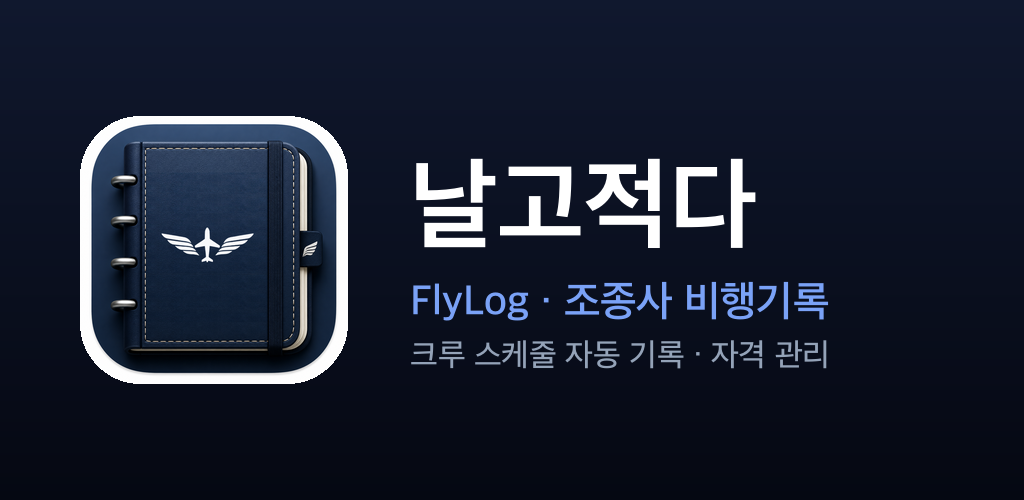
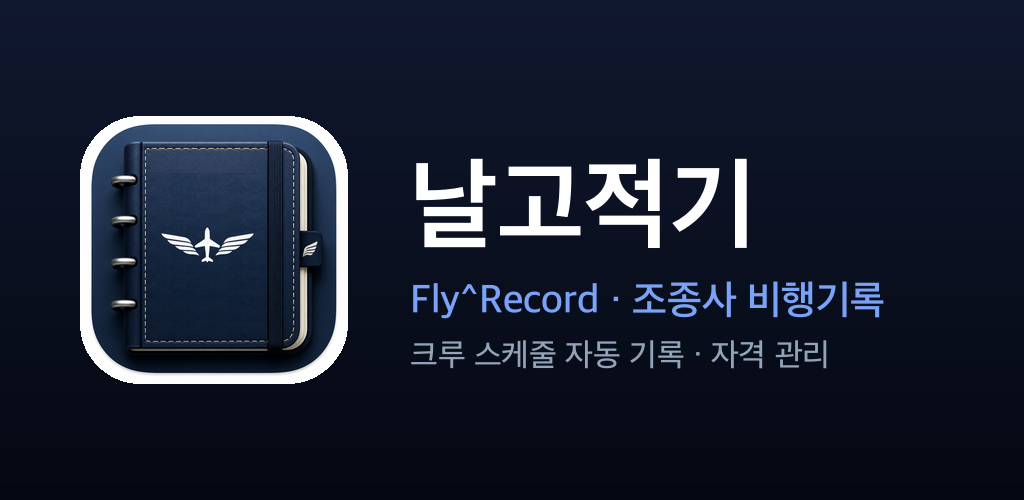
feat: 앱 이름을 '날고적기 / Fly^Record'로 변경
출시 전에 이름을 확정했다. 표시 이름·법적 고지·스토어 자료 전부 교체.
번들 ID(com.rufnekcrew.flylog, com.rufnek.pilotlogbook)와 구독 상품 ID는
사용자에게 보이지 않고 바꾸면 기존 설정이 깨지므로 그대로 둔다.

Changed region(s): [[0.4062, 0.54, 0.875, 0.66], [0.6562, 0.33, 0.75, 0.48]]

diff --git a/www/privacy.html b/www/privacy.html
@@ -4,7 +4,7 @@
   <meta charset="UTF-8" />
   <meta name="viewport" content="width=device-width, initial-scale=1.0" />
   <meta name="theme-color" content="#0a1440" />
-  <title>개인정보처리방침 | 날고적다</title>
+  <title>개인정보처리방침 | 날고적기</title>
   <style>
     * { box-sizing:border-box; }
     body { margin:0; background:#f5f7fb; color:#172033; font-family:-apple-system,BlinkMacSystemFont,"Noto Sans KR","Segoe UI",sans-serif; line-height:1.7; }
@@ -28,14 +28,14 @@
 </head>
 <body>
 <main>
-  <div class="brand">날고적다 FLYLOG</div>
+  <div class="brand">날고적기 FLYLOG</div>
   <h1>개인정보처리방침</h1>
   <p class="sub">시행일: 2026년 8월 23일</p>
 
-  <div class="summary">날고적다는 서비스 제공에 필요한 최소한의 정보만 처리합니다. CrewConnex 아이디와 비밀번호 및 파싱을 위해 선택한 PDF·Excel·CSV 원본 파일은 날고적다 서비스 코드에 영구 저장하지 않습니다. 기존 경력 증빙 첨부파일은 사용자의 기기에만 저장되고 서버로 전송되지 않습니다.</div>
+  <div class="summary">날고적기는 서비스 제공에 필요한 최소한의 정보만 처리합니다. CrewConnex 아이디와 비밀번호 및 파싱을 위해 선택한 PDF·Excel·CSV 원본 파일은 날고적기 서비스 코드에 영구 저장하지 않습니다. 기존 경력 증빙 첨부파일은 사용자의 기기에만 저장되고 서버로 전송되지 않습니다.</div>
 
   <h2>1. 개인정보 처리자</h2>
-  <p>서비스명 및 운영자 표기: 날고적다<br />개인정보 관련 문의: <a href="mailto:info@rufnekcrew.com">info@rufnekcrew.com</a></p>
+  <p>서비스명 및 운영자 표기: 날고적기<br />개인정보 관련 문의: <a href="mailto:info@rufnekcrew.com">info@rufnekcrew.com</a></p>
 
   <h2>2. 처리하는 정보, 목적 및 보유기간</h2>
   <div class="table-wrap">
@@ -57,9 +57,9 @@
   <ul>
     <li>비행기록은 기기 로컬 저장소와 로그인 계정의 Firebase Firestore에 저장됩니다.</li>
     <li>PDF·Excel·CSV 파일은 사용자 기기에서 분석하며, 분석된 비행기록만 동기화 대상이 됩니다.</li>
-    <li>기존 경력 증빙 PDF·사진은 계정별로 구분된 기기 내부 저장소에만 보관되며 Firebase 또는 날고적다 서버에 업로드하지 않습니다.</li>
+    <li>기존 경력 증빙 PDF·사진은 계정별로 구분된 기기 내부 저장소에만 보관되며 Firebase 또는 날고적기 서버에 업로드하지 않습니다.</li>
     <li>전체 백업 파일은 사용자의 명시적인 요청으로 생성되어 사용자가 선택한 파일 앱·iCloud Drive·Google Drive 등에 전달됩니다. 해당 외부 보관 위치의 이용조건과 보안은 각 서비스 및 사용자의 관리에 따릅니다.</li>
-    <li>CrewConnex 로그인 정보는 HTTPS로 Cloudflare Worker에 전송되어 사용자가 요청한 조회에만 사용됩니다. 날고적다 코드는 해당 아이디와 비밀번호를 데이터베이스·파일·캐시에 영구 저장하지 않습니다.</li>
+    <li>CrewConnex 로그인 정보는 HTTPS로 Cloudflare Worker에 전송되어 사용자가 요청한 조회에만 사용됩니다. 날고적기 코드는 해당 아이디와 비밀번호를 데이터베이스·파일·캐시에 영구 저장하지 않습니다.</li>
   </ul>
 
   <h2>4. 외부 서비스 및 처리 위탁</h2>
@@ -77,10 +77,10 @@
   <p>위 서비스는 글로벌 인프라를 사용하므로 정보가 대한민국 외 지역에서 처리될 수 있습니다. 정식 출시 전 실제 Firebase 저장 리전과 각 제공자의 최신 처리 조건을 다시 확인해 본 방침을 구체화합니다.</p>
 
   <h2>5. 제3자 제공</h2>
-  <p>날고적다는 사용자의 개인정보를 판매하지 않습니다. 법령에 근거가 있거나 사용자가 별도로 동의한 경우를 제외하고, 서비스 제공 목적과 무관한 제3자에게 개인정보를 제공하지 않습니다. CrewConnex 자동 가져오기는 사용자가 입력한 계정으로 해당 제3자 서비스에 접속하는 기능이며 CrewConnex 자체 정책의 적용을 받을 수 있습니다.</p>
+  <p>날고적기는 사용자의 개인정보를 판매하지 않습니다. 법령에 근거가 있거나 사용자가 별도로 동의한 경우를 제외하고, 서비스 제공 목적과 무관한 제3자에게 개인정보를 제공하지 않습니다. CrewConnex 자동 가져오기는 사용자가 입력한 계정으로 해당 제3자 서비스에 접속하는 기능이며 CrewConnex 자체 정책의 적용을 받을 수 있습니다.</p>
 
   <h2>6. 파기 절차 및 방법</h2>
-  <p>사용자는 앱의 ‘계정 및 도움말 → 회원 탈퇴’에서 계정 삭제를 시작할 수 있습니다. 본인 확인 후 Firebase 로그인 계정, Firestore 비행기록, 현재 기기의 로컬 비행기록과 해당 계정의 기기 내 경력 증빙 첨부파일을 삭제합니다. 삭제한 기록은 복구할 수 없습니다. 사용자가 파일 앱이나 외부 클라우드에 별도로 보관한 백업 파일은 날고적다가 삭제할 수 없으므로 사용자가 직접 삭제해야 합니다.</p>
+  <p>사용자는 앱의 ‘계정 및 도움말 → 회원 탈퇴’에서 계정 삭제를 시작할 수 있습니다. 본인 확인 후 Firebase 로그인 계정, Firestore 비행기록, 현재 기기의 로컬 비행기록과 해당 계정의 기기 내 경력 증빙 첨부파일을 삭제합니다. 삭제한 기록은 복구할 수 없습니다. 사용자가 파일 앱이나 외부 클라우드에 별도로 보관한 백업 파일은 날고적기가 삭제할 수 없으므로 사용자가 직접 삭제해야 합니다.</p>
 
   <h2>7. 이용자의 권리</h2>
   <p>이용자는 자신의 비행기록을 조회·수정·삭제할 수 있고, 회원 탈퇴를 통해 계정과 관련 정보의 삭제를 요청할 수 있습니다. 개인정보 열람·정정·삭제·처리정지 또는 기타 문의는 아래 이메일로 접수할 수 있습니다.</p>
@@ -91,7 +91,7 @@
     <li>외부 통신에는 HTTPS를 사용합니다.</li>
     <li>로그아웃 시 기기의 계정별 로컬 비행기록을 제거해 다른 계정과 섞이지 않도록 합니다.</li>
     <li>기기 전용 경력 증빙은 로그인 계정 식별값으로 분리해 다른 계정 화면과 백업에 노출되지 않도록 합니다.</li>
-    <li>CrewConnex 비밀번호를 날고적다 데이터베이스에 저장하지 않습니다.</li>
+    <li>CrewConnex 비밀번호를 날고적기 데이터베이스에 저장하지 않습니다.</li>
   </ul>
 
   <h2>9. 방침 변경</h2>
@@ -99,12 +99,12 @@
 
   <h2>10. 문의 및 권리침해 구제</h2>
   <div class="contact">
-    날고적다 개인정보 문의: <a href="mailto:info@rufnekcrew.com">info@rufnekcrew.com</a><br />
+    날고적기 개인정보 문의: <a href="mailto:info@rufnekcrew.com">info@rufnekcrew.com</a><br />
     개인정보침해 신고센터: 국번 없이 118 · <a href="https://privacy.kisa.or.kr" target="_blank" rel="noopener">privacy.kisa.or.kr</a><br />
     개인정보분쟁조정위원회: 1833-6972 · <a href="https://www.kopico.go.kr" target="_blank" rel="noopener">kopico.go.kr</a>
   </div>
 
-  <footer>운영: 날고적다 · <a href="faq.html">FAQ</a> · <a href="terms.html">이용약관</a></footer>
+  <footer>운영: 날고적기 · <a href="faq.html">FAQ</a> · <a href="terms.html">이용약관</a></footer>
 </main>
 </body>
 </html>

diff --git a/www/index.html b/www/index.html
@@ -5,7 +5,7 @@
   <meta name="viewport" content="width=device-width, initial-scale=1.0, maximum-scale=1.0, user-scalable=no, viewport-fit=cover" />
   <meta name="apple-mobile-web-app-capable" content="yes" />
   <meta name="apple-mobile-web-app-status-bar-style" content="black-translucent" />
-  <meta name="apple-mobile-web-app-title" content="날고적다" />
+  <meta name="apple-mobile-web-app-title" content="날고적기" />
   <meta name="theme-color" content="#0a1440" />
   <link rel="manifest" href="manifest.json" />
   <!-- PWA Icons -->
@@ -17,7 +17,7 @@
         media="(device-width: 430px) and (device-height: 932px) and (-webkit-device-pixel-ratio: 3)" />
   <link rel="apple-touch-startup-image" href="splash-390x844.png"
         media="(device-width: 390px) and (device-height: 844px) and (-webkit-device-pixel-ratio: 3)" />
-  <title>날고적다</title>
+  <title>날고적기</title>
   <script src="https://cdnjs.cloudflare.com/ajax/libs/pdf.js/3.11.174/pdf.min.js"></script>
   <script src="https://cdnjs.cloudflare.com/ajax/libs/xlsx/0.18.5/xlsx.full.min.js"></script>
   <script src="logten-export.js"></script>
@@ -1417,7 +1417,7 @@
   <!-- 인앱 브라우저 경고 (카카오톡 등) -->
   <div id="inAppWarning" style="display:none;position:fixed;inset:0;background:#0a0e1a;z-index:9999;display:none;flex-direction:column;align-items:center;justify-content:center;padding:32px;text-align:center">
     <div style="font-size:48px;margin-bottom:16px">✈</div>
-    <div style="font-size:20px;font-weight:700;color:#f9fafb;margin-bottom:8px">날고적다</div>
+    <div style="font-size:20px;font-weight:700;color:#f9fafb;margin-bottom:8px">날고적기</div>
     <div style="font-size:14px;color:#9ca3af;margin-bottom:24px;line-height:1.7">
       카카오톡 내장 브라우저에서는<br>Google 로그인이 지원되지 않습니다.
     </div>
@@ -1443,7 +1443,7 @@
 
   <div class="auth-card" id="authCard">
     <div class="auth-logo">✈</div>
-    <div class="auth-title">날고적다</div>
+    <div class="auth-title">날고적기</div>
     <div class="auth-sub" id="authSub">이메일로 로그인하거나<br>Google 계정으로 빠르게 시작하세요.</div>
 
     <!-- 로그인 폼 -->
@@ -1493,7 +1493,7 @@
       <button id="drawerBtn" onclick="openDrawer()" aria-label="메뉴 열기">☰</button>
       <div class="logo-icon">✈</div>
       <div>
-        <div class="logo-text">날고적다</div>
+        <div class="logo-text">날고적기</div>
         <div class="logo-sub" id="headerSection">비행 기록</div>
       </div>
     </div>
@@ -1581,7 +1581,7 @@
     <div class="drawer-head">
       <div class="logo-icon">✈</div>
       <div>
-        <div class="drawer-head-name">날고적다</div>
+        <div class="drawer-head-name">날고적기</div>
         <div class="drawer-head-sub">FLYLOG · 조종사 비행기록</div>
       </div>
     </div>
@@ -1761,7 +1761,7 @@
             📂 파일 선택
           </button>
         </div>
-        <div style="margin-top:8px;font-size:11px;color:var(--text3)">ePaper PDF · flightHistory Excel/CSV · 날고적다 LogTen CSV</div>
+        <div style="margin-top:8px;font-size:11px;color:var(--text3)">ePaper PDF · flightHistory Excel/CSV · 날고적기 LogTen CSV</div>
       </div>
     </div>
 
@@ -2269,7 +2269,7 @@
       <button class="modal-close" onclick="closeInfoPage()">✕</button>
     </div>
     <div class="modal-body">
-      <iframe id="infoFrame" title="날고적다 안내"></iframe>
+      <iframe id="infoFrame" title="날고적기 안내"></iframe>
     </div>
   </div>
 </div>
@@ -2671,7 +2671,7 @@ function toggleTheme() {
 
 function openAccountMenu() {
   if (!currentUser) return;
-  const name = currentUser.displayName || '날고적다 사용자';
+  const name = currentUser.displayName || '날고적기 사용자';
   const email = currentUser.email || '';
   const avatar = document.getElementById('accountAvatar');
   document.getElementById('accountDisplayName').textContent = name;
@@ -4084,7 +4084,7 @@ async function exportFullBackup() {
     const file = new File([JSON.stringify(payload)], fileName, { type: 'application/json' });
 
     if (navigator.share && navigator.canShare && navigator.canShare({ files: [file] })) {
-      await navigator.share({ files: [file], title: '날고적다 전체 백업' });
+      await navigator.share({ files: [file], title: '날고적기 전체 백업' });
     } else {
       const url = URL.createObjectURL(file);
       const link = document.createElement('a');
@@ -5990,7 +5990,7 @@ async function loginCrewConnex() {
   try {
     const signedInUser = auth.currentUser;
     if (!signedInUser) {
-      throw new Error('날고적다에 로그인한 뒤 다시 시도해 주세요');
+      throw new Error('날고적기에 로그인한 뒤 다시 시도해 주세요');
     }
     const firebaseIdToken = await signedInUser.getIdToken();
     const resp = await fetch('https://crewconnex.tae26001.workers.dev', {

diff --git a/www/faq.html b/www/faq.html
@@ -4,7 +4,7 @@
   <meta charset="UTF-8" />
   <meta name="viewport" content="width=device-width, initial-scale=1.0" />
   <meta name="theme-color" content="#0a1440" />
-  <title>자주 묻는 질문 | 날고적다</title>
+  <title>자주 묻는 질문 | 날고적기</title>
   <style>
     * { box-sizing:border-box; }
     body { margin:0; background:#f5f7fb; color:#172033; font-family:-apple-system,BlinkMacSystemFont,"Noto Sans KR","Segoe UI",sans-serif; line-height:1.65; }
@@ -28,7 +28,7 @@
 <body>
 <main>
   <header>
-    <div class="brand">날고적다 FLYLOG</div>
+    <div class="brand">날고적기 FLYLOG</div>
     <h1>자주 묻는 질문</h1>
     <p class="sub">현재 서비스 동작과 정식 출시 정책을 기준으로 안내합니다.</p>
   </header>
@@ -70,7 +70,7 @@
 
   <details>
     <summary>비행기록은 어디에 저장되나요?</summary>
-    <div class="answer"><p>비행기록과 기존 경력 수치는 기기 내부 저장소와 로그인 계정의 Firebase Firestore에 저장됩니다. 파싱을 위해 선택한 PDF·Excel·CSV 원본과 기존 경력에 첨부한 증빙 PDF·사진은 날고적다 서버에 업로드하지 않습니다. 경력 증빙 첨부파일은 선택한 휴대폰 안에만 저장됩니다.</p></div>
+    <div class="answer"><p>비행기록과 기존 경력 수치는 기기 내부 저장소와 로그인 계정의 Firebase Firestore에 저장됩니다. 파싱을 위해 선택한 PDF·Excel·CSV 원본과 기존 경력에 첨부한 증빙 PDF·사진은 날고적기 서버에 업로드하지 않습니다. 경력 증빙 첨부파일은 선택한 휴대폰 안에만 저장됩니다.</p></div>
   </details>
 
   <details>
@@ -90,7 +90,7 @@
 
   <details>
     <summary>이 앱의 기록을 공식 로그북으로 바로 제출할 수 있나요?</summary>
-    <div class="answer"><p>날고적다는 기록과 계산을 돕는 도구입니다. 항공사·관할 기관·채용기관이 요구하는 형식과 인정 기준은 다를 수 있으므로 제출 전 원본 자료와 관련 규정을 사용자가 직접 확인해야 합니다.</p></div>
+    <div class="answer"><p>날고적기는 기록과 계산을 돕는 도구입니다. 항공사·관할 기관·채용기관이 요구하는 형식과 인정 기준은 다를 수 있으므로 제출 전 원본 자료와 관련 규정을 사용자가 직접 확인해야 합니다.</p></div>
   </details>
 
   <details>
@@ -98,9 +98,9 @@
     <div class="answer"><p>비행 날짜·편명, 발생한 화면과 상황을 적어 <a href="mailto:info@rufnekcrew.com?subject=Pilot%20Logbook%20문의">info@rufnekcrew.com</a>으로 보내주세요. 비밀번호나 인증번호는 이메일에 포함하지 마세요.</p></div>
   </details>
 
-  <div class="notice">CrewConnex는 제3자 서비스입니다. 날고적다는 사용자가 제공한 로그인 정보로 일회성 조회를 수행하며 아이디와 비밀번호를 서비스 코드에 영구 저장하지 않습니다.</div>
+  <div class="notice">CrewConnex는 제3자 서비스입니다. 날고적기는 사용자가 제공한 로그인 정보로 일회성 조회를 수행하며 아이디와 비밀번호를 서비스 코드에 영구 저장하지 않습니다.</div>
 
-  <footer>시행일: 2026년 8월 23일 · 운영: 날고적다 · <a href="privacy.html">개인정보처리방침</a> · <a href="terms.html">이용약관</a></footer>
+  <footer>시행일: 2026년 8월 23일 · 운영: 날고적기 · <a href="privacy.html">개인정보처리방침</a> · <a href="terms.html">이용약관</a></footer>
 </main>
 </body>
 </html>

diff --git a/www/terms.html b/www/terms.html
@@ -4,7 +4,7 @@
   <meta charset="UTF-8" />
   <meta name="viewport" content="width=device-width, initial-scale=1.0" />
   <meta name="theme-color" content="#0a1440" />
-  <title>이용약관 | 날고적다</title>
+  <title>이용약관 | 날고적기</title>
   <style>
     * { box-sizing:border-box; }
     body { margin:0; background:#f5f7fb; color:#172033; font-family:-apple-system,BlinkMacSystemFont,"Noto Sans KR","Segoe UI",sans-serif; line-height:1.72; }
@@ -25,7 +25,7 @@
 </head>
 <body>
 <main>
-  <div class="brand">날고적다 FLYLOG</div>
+  <div class="brand">날고적기 FLYLOG</div>
   <h1>이용약관</h1>
   <p class="sub">시행일: 2026년 8월 23일</p>
 
@@ -35,7 +35,7 @@
   </div>
 
   <h2>제1조 목적</h2>
-  <p>이 약관은 날고적다가 제공하는 전자 비행기록 작성, CrewConnex 자동 가져오기, 통계, 동기화 및 관련 기능의 이용 조건과 운영자와 이용자의 권리·의무를 정합니다.</p>
+  <p>이 약관은 날고적기가 제공하는 전자 비행기록 작성, CrewConnex 자동 가져오기, 통계, 동기화 및 관련 기능의 이용 조건과 운영자와 이용자의 권리·의무를 정합니다.</p>
 
   <h2>제2조 서비스 내용</h2>
   <ul>
@@ -57,13 +57,13 @@
 
   <h2>제4조 비행기록과 이용자 책임</h2>
   <div class="warning">
-    <p>날고적다는 기록과 계산을 돕는 보조 도구이며 항공사, 항공당국 또는 채용기관이 발행·인증하는 공식 기록이 아닙니다. 자동 파싱, 시간 계산 및 인정시간 결과는 원본 자료와 다를 수 있습니다.</p>
+    <p>날고적기는 기록과 계산을 돕는 보조 도구이며 항공사, 항공당국 또는 채용기관이 발행·인증하는 공식 기록이 아닙니다. 자동 파싱, 시간 계산 및 인정시간 결과는 원본 자료와 다를 수 있습니다.</p>
   </div>
   <p>이용자는 저장 또는 제출 전에 OUT/IN, 비행시간, 역할, 계기·야간시간, 착륙 및 인정시간을 원본 자료와 관련 규정에 따라 직접 확인해야 합니다. 특정 기관의 인정 여부는 해당 기관의 기준을 따릅니다.</p>
 
   <h2>제5조 CrewConnex 및 제3자 서비스</h2>
   <ol>
-    <li>CrewConnex는 날고적다가 운영하는 서비스가 아닙니다.</li>
+    <li>CrewConnex는 날고적기가 운영하는 서비스가 아닙니다.</li>
     <li>자동 가져오기는 이용자가 적법하게 사용할 권한이 있는 자신의 계정으로만 실행해야 합니다.</li>
     <li>제3자 서비스의 장애, 화면 구조·정책 변경 또는 접근 제한으로 자동 가져오기가 일시 중단되거나 일부 정보가 누락될 수 있습니다.</li>
     <li>이용자는 소속 회사의 정보보안 정책과 CrewConnex 이용 조건을 확인하고 준수해야 합니다.</li>
@@ -105,7 +105,7 @@
   <h2>제13조 문의</h2>
   <p>서비스 및 약관 문의: <a href="mailto:info@rufnekcrew.com">info@rufnekcrew.com</a></p>
 
-  <footer>운영: 날고적다 · <a href="faq.html">FAQ</a> · <a href="privacy.html">개인정보처리방침</a></footer>
+  <footer>운영: 날고적기 · <a href="faq.html">FAQ</a> · <a href="privacy.html">개인정보처리방침</a></footer>
 </main>
 </body>
 </html>

diff --git a/index.html b/index.html
@@ -5,7 +5,7 @@
   <meta name="viewport" content="width=device-width, initial-scale=1.0, maximum-scale=1.0, user-scalable=no" />
   <meta name="apple-mobile-web-app-capable" content="yes" />
   <meta name="apple-mobile-web-app-status-bar-style" content="black-translucent" />
-  <meta name="apple-mobile-web-app-title" content="날고적다" />
+  <meta name="apple-mobile-web-app-title" content="날고적기" />
   <meta name="theme-color" content="#0a1440" />
   <link rel="manifest" href="/manifest.json" />
   <!-- PWA Icons -->
@@ -17,7 +17,7 @@
         media="(device-width: 430px) and (device-height: 932px) and (-webkit-device-pixel-ratio: 3)" />
   <link rel="apple-touch-startup-image" href="/splash-390x844.png"
         media="(device-width: 390px) and (device-height: 844px) and (-webkit-device-pixel-ratio: 3)" />
-  <title>날고적다</title>
+  <title>날고적기</title>
   <script src="https://cdnjs.cloudflare.com/ajax/libs/pdf.js/3.11.174/pdf.min.js"></script>
   <script src="https://cdnjs.cloudflare.com/ajax/libs/xlsx/0.18.5/xlsx.full.min.js"></script>
   <!-- Firebase v10 compat SDK -->
@@ -1948,7 +1948,7 @@ function printMonth(ym) {
 
   const printDate = new Date().toLocaleDateString('en-GB', {day:'2-digit', month:'short', year:'numeric'});
   const html = `<!DOCTYPE html><html lang="en"><head><meta charset="UTF-8">
-  <title>날고적다 - ${label}</title>
+  <title>날고적기 - ${label}</title>
   <style>
     body { font-family: Arial, sans-serif; font-size: 11px; margin: 20px; color: #111; }
     h2 { font-size: 16px; margin-bottom: 4px; }
@@ -1961,7 +1961,7 @@ function printMonth(ym) {
     .summary b { font-size: 14px; color: #1e3a5f; }
     @media print { body { margin: 10mm; } }
   </style></head><body>
-  <h2>날고적다 — ${label}</h2>
+  <h2>날고적기 — ${label}</h2>
   <div class="subtitle">Kyungtae Kang · Printed: ${printDate}</div>
   <table>
     <thead><tr>

diff --git a/workers/crewconnex.test.js b/workers/crewconnex.test.js
@@ -178,7 +178,7 @@ test('Automatic import usage key is stable and identifies a unique flight', () =
   );
 });
 
-test('Apple subscription selection only accepts active 날고적다 products', () => {
+test('Apple subscription selection only accepts active 날고적기 products', () => {
   const now = Date.now();
   const jws = payload => `header.${Buffer.from(JSON.stringify(payload)).toString('base64url')}.signature`;
   const active = selectActiveAppleSubscription({

diff --git a/store-screenshots/play-listing.md b/store-screenshots/play-listing.md
@@ -1,4 +1,4 @@
-# Google Play 등록 자료 (날고적다 / FlyLog)
+# Google Play 등록 자료 (날고적기 / Fly^Record)
 
 패키지명 `com.rufnek.pilotlogbook` · 첫 출시 (versionCode 1)
 
@@ -16,13 +16,13 @@
 
 ## 스토어 등록정보
 
-**앱 이름** 날고적다 — 조종사 비행기록
+**앱 이름** 날고적기 — 조종사 비행기록
 
 **간단한 설명** (80자 이내)
 > 조종사를 위한 전자 비행기록부. 스케줄 자동 기록, 인정시간 계산, 자격 관리까지.
 
 **자세한 설명**
-> 날고적다는 조종사가 직접 쓰는 전자 비행기록부입니다.
+> 날고적기는 조종사가 직접 쓰는 전자 비행기록부입니다.
 >
 > • 비행기록 — 편명·구간·시간·착륙유형(오토/CAT II·III)을 회사 제출 양식에 맞춰 기록합니다.
 > • 자동 가져오기 — 크루 스케줄에서 최근 비행을 불러와 편조까지 함께 저장합니다. (제주항공 CrewConnex 지원)
@@ -35,7 +35,7 @@
 > 자동 가져오기는 처음 50편까지 무료이며, 이후에는 구독으로 무제한 이용할 수 있습니다.
 > 수동 입력, 엑셀 가져오기, 통계, 자격 관리 등 나머지 기능은 구독 없이 모두 사용할 수 있습니다.
 >
-> 날고적다는 기록과 계산을 돕는 보조 도구이며, 항공사·항공당국이 발행하는 공식 기록이 아닙니다.
+> 날고적기는 기록과 계산을 돕는 보조 도구이며, 항공사·항공당국이 발행하는 공식 기록이 아닙니다.
 
 **카테고리** 생산성 (또는 여행) · **광고 없음** · **타겟 연령** 18세 이상
 
@@ -124,7 +124,7 @@ keytool -list -v -keystore ~/flylog-upload.jks -alias flylog | grep SHA1
 ## ③ Play Console — 앱 만들고 서비스 계정 키 받기
 
 1. [Play Console](https://play.google.com/console) → **앱 만들기**
-   - 앱 이름 `날고적다`, 언어 한국어, **앱**, **유료 또는 무료 → 무료**
+   - 앱 이름 `날고적기`, 언어 한국어, **앱**, **유료 또는 무료 → 무료**
 2. 좌측 **설정 → API 액세스** → **새 서비스 계정 만들기** → 구글 클라우드 콘솔로 이동
    - 서비스 계정 만들기 → 이름 아무거나 → 완료
    - 만든 계정 → **키 → 키 추가 → 새 키 만들기 → JSON** → 파일 다운로드

diff --git a/CLAUDE.md b/CLAUDE.md
@@ -1,4 +1,4 @@
-# 날고적다 (FlyLog) — Claude Code 컨텍스트
+# 날고적기 (Fly^Record) — Claude Code 컨텍스트
 
 ## 프로젝트 개요
 - 제주항공 기장용 파일럿 로그북 PWA + Android/iOS 앱
